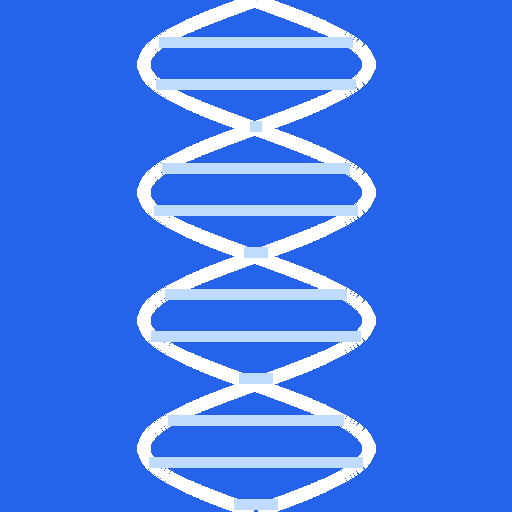
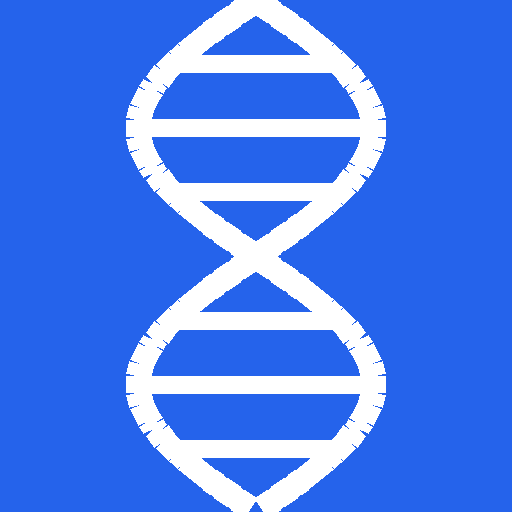
Add files via upload

Changed region(s): [[0.25, 0.0, 0.75, 1.0]]

diff --git a/index.html b/index.html
@@ -1,108 +1,69 @@
-<!doctype html>
-<html lang="ja">
-<head>
-<meta charset="utf-8">
-<meta name="viewport" content="width=device-width,initial-scale=1,viewport-fit=cover">
-<meta name="theme-color" content="#2563eb">
-<meta name="apple-mobile-web-app-capable" content="yes">
-<meta name="apple-mobile-web-app-title" content="DNA計算">
-<link rel="manifest" href="manifest.json">
-<link rel="apple-touch-icon" href="icon-192.png">
-<title>DNA混合比率・容量計算</title>
+<!doctype html><html lang="ja"><head>
+<meta charset="utf-8"><meta name="viewport" content="width=device-width,initial-scale=1,viewport-fit=cover">
+<meta name="theme-color" content="#2563eb"><link rel="manifest" href="manifest.json"><title>DNA計算</title>
 <style>
-*{box-sizing:border-box}body{margin:0;background:#f3f4f6;color:#111827;font-family:-apple-system,BlinkMacSystemFont,"Segoe UI","Hiragino Sans",Meiryo,sans-serif}
-main{max-width:720px;margin:auto;padding:18px 16px 40px}h1{font-size:23px;margin:0 0 6px}.sub{color:#6b7280;font-size:13px}
-.card{background:white;border-radius:16px;padding:16px;margin-top:14px;box-shadow:0 1px 6px #00000012}
-h2{font-size:17px;margin:0 0 13px}.grid{display:grid;grid-template-columns:1fr 1fr;gap:12px}
-label{display:block;font-size:13px;font-weight:700;margin-bottom:6px}.field{margin-bottom:10px}
-input,select{width:100%;padding:12px;border:1px solid #d1d5db;border-radius:10px;font-size:17px;background:white}
-.unit{display:grid;grid-template-columns:1fr 110px;gap:8px}
-.target{border:2px solid #2563eb;background:#eff6ff}
-.target input{font-size:21px;font-weight:700}
-.recommend{font-size:12px;color:#2563eb;margin-top:5px}
-button{width:100%;border:0;border-radius:12px;padding:14px;font-size:17px;font-weight:800;background:#2563eb;color:white;margin-top:4px}
-.clear{background:#e5e7eb;color:#111827;margin-top:9px;font-size:15px}
-.result{padding:12px;border-radius:11px;background:#eff6ff;border:1px solid #bfdbfe;margin:9px 0}.rlabel{font-size:12px;color:#4b5563}.value{font-size:20px;font-weight:800;margin-top:2px}.small{font-size:12px;color:#6b7280;margin-top:3px}
-.error{display:none;background:#fef2f2;border:1px solid #fecaca;color:#b91c1c;padding:10px;border-radius:10px;margin-top:10px;font-size:13px}
-.hidden{display:none}.formula{font:12px ui-monospace,SFMono-Regular,Menlo,monospace;line-height:1.7;background:#f9fafb;padding:10px;border-radius:9px}
-.note{font-size:12px;color:#6b7280;line-height:1.5}@media(max-width:430px){.grid{grid-template-columns:1fr}}
-</style>
-</head>
-<body>
-<main>
-<h1>DNA混合比率・容量計算</h1>
-<div class="sub">DNA AとDNA Bを指定したモル比で混合するための容量計算</div>
+*{box-sizing:border-box}body{font-family:-apple-system,BlinkMacSystemFont,"Helvetica Neue",Arial,sans-serif;margin:0;background:#f3f6fa;color:#172033;padding-bottom:30px}
+header{background:#2563eb;color:#fff;padding:18px 16px;text-align:center;font-size:22px;font-weight:700}
+main{max-width:620px;margin:auto;padding:14px}.card{background:#fff;border-radius:14px;padding:16px;margin-bottom:14px;box-shadow:0 2px 10px #0000000f}
+h2{font-size:18px;margin:0 0 14px}label{display:block;font-size:14px;font-weight:600;margin:12px 0 6px}
+input,select{width:100%;font-size:17px;padding:12px;border:1px solid #cbd5e1;border-radius:9px;background:#fff}.row{display:grid;grid-template-columns:1fr 120px;gap:8px}
+.type-row{display:flex;gap:8px}.type-row label{flex:1;margin:0}.type-row input{position:absolute;opacity:0}.type-row span{display:block;border:1px solid #cbd5e1;border-radius:9px;padding:11px 6px;text-align:center;font-weight:600;background:#fff}
+.type-row input:checked+span{background:#dbeafe;border-color:#2563eb;color:#1d4ed8}.hint,.unit-note{font-size:12px;color:#64748b;margin-top:6px}.recommend{font-size:13px;color:#2563eb;margin-top:7px}
+button{width:100%;border:0;border-radius:10px;padding:14px;font-size:18px;font-weight:700;background:#2563eb;color:#fff;margin-top:4px}.small-btn{background:#64748b;font-size:14px;padding:9px;margin-top:10px}
+.result{background:#eff6ff;border-left:4px solid #2563eb;padding:12px;border-radius:8px;margin:9px 0}.result b{font-size:18px}.error{background:#fee2e2;color:#991b1b;padding:12px;border-radius:8px;margin-top:12px}
+footer{text-align:center;color:#64748b;font-size:11px;padding:8px 15px}
+</style></head><body><header>DNA計算</header><main>
 
-<section class="card">
-<h2>① DNA A</h2>
-<div class="grid">
-<div class="field"><label for="aConc">DNA A 濃度</label><div class="unit"><input id="aConc" type="number" inputmode="decimal" step="any" min="0" placeholder="例：20"><select id="aUnit"><option value="ngul">ng/µL</option><option value="gl">g/L</option></select></div></div>
-<div class="field"><label for="aSize">DNA A サイズ (bp)</label><input id="aSize" type="number" inputmode="numeric" min="1" placeholder="例：5000"></div>
-</div>
-</section>
+<div class="card"><h2>① DNA A</h2>
+<label>DNA A の種類</label><div class="type-row">
+<label><input type="radio" name="typeA" value="ds" checked><span>2本鎖DNA (dsDNA)</span></label>
+<label><input type="radio" name="typeA" value="ss"><span>1本鎖DNA (ssDNA)</span></label></div>
+<label>DNA A サイズ（bp / nt）</label><input id="sizeA" type="number" min="0" step="any" inputmode="decimal" placeholder="例：1000">
+<label>DNA A 濃度</label><div class="row"><input id="concA" type="number" min="0" step="any" inputmode="decimal" placeholder="例：10"><select id="unitA"><option value="ngul">ng/µL</option><option value="gl">g/L</option></select></div></div>
 
-<section class="card">
-<h2>② DNA B</h2>
-<div class="grid">
-<div class="field"><label for="bConc">DNA B 濃度</label><div class="unit"><input id="bConc" type="number" inputmode="decimal" step="any" min="0" placeholder="例：10"><select id="bUnit"><option value="ngul">ng/µL</option><option value="gl">g/L</option></select></div></div>
-<div class="field"><label for="bSize">DNA B サイズ (bp)</label><input id="bSize" type="number" inputmode="numeric" min="1" placeholder="例：3000"></div>
-</div>
-</section>
+<div class="card"><h2>② DNA B</h2>
+<label>DNA B の種類</label><div class="type-row">
+<label><input type="radio" name="typeB" value="ds" checked><span>2本鎖DNA (dsDNA)</span></label>
+<label><input type="radio" name="typeB" value="ss"><span>1本鎖DNA (ssDNA)</span></label></div>
+<label>DNA B サイズ（bp / nt）</label><input id="sizeB" type="number" min="0" step="any" inputmode="decimal" placeholder="例：500">
+<label>DNA B 濃度</label><div class="row"><input id="concB" type="number" min="0" step="any" inputmode="decimal" placeholder="例：10"><select id="unitB"><option value="ngul">ng/µL</option><option value="gl">g/L</option></select></div></div>
 
-<section class="card target">
-<h2>③ DNA A の目標量</h2>
-<label for="targetA">Aを何 pmol 使用したいですか？</label>
-<input id="targetA" type="number" inputmode="decimal" step="any" min="0.000001" value="0.03">
-<div class="recommend">推奨値：0.03 pmol　（必要に応じて自由に変更できます）</div>
-</section>
+<div class="card"><h2>③ DNA A の目標量</h2>
+<label>Aを何量 使用したいですか？</label><div class="row"><input id="targetA" type="number" min="0" step="any" inputmode="decimal" value="0.03">
+<select id="targetUnit"><option value="pmol">pmol</option><option value="fmol">fmol</option></select></div>
+<div class="recommend">推奨値：0.03 pmol（30 fmol）／自由に変更できます</div></div>
 
-<section class="card">
-<h2>④ 混合モル比</h2>
-<div class="field"><label for="ratio">DNA A : DNA B = 1 : N</label><input id="ratio" type="number" inputmode="decimal" step="any" min="0.000001" value="1" placeholder="例：2"></div>
-<button type="button" id="calc">計算実行</button>
-<button type="button" id="clear" class="clear">入力をクリア</button>
-<div id="error" class="error"></div>
-</section>
+<div class="card"><h2>④ 混合モル比</h2><label>DNA A : DNA B = 1 : N</label>
+<input id="ratioN" type="number" min="0" step="any" inputmode="decimal" value="1" placeholder="例：2"></div>
 
-<section id="results" class="card hidden">
-<h2>計算結果</h2>
-<div class="result"><div class="rlabel">DNA A モル濃度</div><div class="value" id="aMol"></div><div class="small">µM = pmol/µL</div></div>
-<div class="result"><div class="rlabel">DNA A 使用量</div><div class="value" id="aVol"></div><div class="small" id="aNote"></div></div>
-<div class="result"><div class="rlabel">DNA B 必要量</div><div class="value" id="bPmol"></div></div>
-<div class="result"><div class="rlabel">DNA B モル濃度</div><div class="value" id="bMol"></div><div class="small">µM = pmol/µL</div></div>
-<div class="result"><div class="rlabel">DNA B 使用量</div><div class="value" id="bVol"></div></div>
-<div class="result"><div class="rlabel">合計使用量</div><div class="value" id="total"></div></div>
-</section>
+<div class="card"><button type="button" onclick="calculate()">計算する</button><div id="output"></div>
+<button type="button" class="small-btn" onclick="clearSaved()">保存した入力値を消去</button></div>
+</main><footer>入力値はこの端末のブラウザに保存され、外部には送信されません。<br>濃度換算：1 ng/µL = 0.001 g/L　｜　平均分子量：dsDNA = 660 g/mol/bp、ssDNA = 330 g/mol/nt</footer>
 
-<section class="card">
-<h2>計算式</h2>
-<div class="formula">分子量 = bp × 660 g/mol<br>モル濃度(µM) = 濃度(g/L) ÷ (bp × 660) × 10⁶<br>A使用量(µL) = A目標量(pmol) ÷ A濃度(µM)<br>B目標量(pmol) = A目標量 × N<br>B使用量(µL) = B目標量(pmol) ÷ B濃度(µM)</div>
-<p class="note">※ dsDNAの平均分子量を660 g/mol/bpとして計算。ng/µLとg/Lは数値上同値です。</p>
-</section>
-</main>
 <script>
-const $=id=>document.getElementById(id);
-const num=(id,name)=>{const v=Number($(id).value);if(!Number.isFinite(v)||v<=0)throw Error(name+"を0より大きい数値で入力してください。");return v};
-const fmt=x=>{if(!Number.isFinite(x))return "—";if(x===0)return"0";if(Math.abs(x)>=1000||Math.abs(x)<.001)return x.toExponential(5);return String(Number(x.toFixed(6)))};
-function calc(){
- $("error").style.display="none";$("results").classList.add("hidden");
- try{
-  const ac=num("aConc","DNA A濃度"), as=num("aSize","DNA Aサイズ");
-  const bc=num("bConc","DNA B濃度"), bs=num("bSize","DNA Bサイズ");
-  const target=num("targetA","DNA A目標量"), ratio=num("ratio","混合比N");
-  const am=ac/(as*660)*1e6, bm=bc/(bs*660)*1e6;
-  const av=target/am, bp=target*ratio, bv=bp/bm;
-  $("aMol").textContent=fmt(am)+" µM";$("aVol").textContent=fmt(av)+" µL";
-  $("aNote").textContent="目標量 "+fmt(target)+" pmol";
-  $("bPmol").textContent=fmt(bp)+" pmol";$("bMol").textContent=fmt(bm)+" µM";
-  $("bVol").textContent=fmt(bv)+" µL";$("total").textContent=fmt(av+bv)+" µL";
-  $("results").classList.remove("hidden");$("results").scrollIntoView({behavior:"smooth"});
- }catch(e){$("error").textContent=e.message;$("error").style.display="block"}
-}
-$("calc").onclick=calc;
-$("clear").onclick=()=>{["aConc","aSize","bConc","bSize"].forEach(id=>$(id).value="");$("targetA").value="0.03";$("ratio").value="1";$("error").style.display="none";$("results").classList.add("hidden")};
-document.querySelectorAll("input").forEach(e=>e.onkeydown=x=>{if(x.key==="Enter")calc()});
-if("serviceWorker"in navigator)navigator.serviceWorker.register("./sw.js").catch(()=>{});
-</script>
-</body>
-</html>
+const ids=["sizeA","concA","unitA","sizeB","concB","unitB","targetA","targetUnit","ratioN"], radios=["typeA","typeB"];
+function saveInputs(){let d={};ids.forEach(id=>d[id]=document.getElementById(id).value);radios.forEach(n=>{let e=document.querySelector('input[name="'+n+'"]:checked');d[n]=e?e.value:"ds"});localStorage.setItem("dnaCalculatorInputsV5",JSON.stringify(d))}
+function loadInputs(){try{let d=JSON.parse(localStorage.getItem("dnaCalculatorInputsV5")||"{}");ids.forEach(id=>{if(d[id]!==undefined)document.getElementById(id).value=d[id]});radios.forEach(n=>{if(d[n]){let e=document.querySelector('input[name="'+n+'"][value="'+d[n]+'"]');if(e)e.checked=true}})}catch(e){}}
+function clearSaved(){localStorage.removeItem("dnaCalculatorInputsV5");location.reload()}
+function num(id){return Number(document.getElementById(id).value)}
+function molarity(c,size,type){return c/(size*(type==="ds"?660:330))*1e6}
+function fmt(x){if(!isFinite(x))return"—";if(x===0)return"0";if(Math.abs(x)>=1000||Math.abs(x)<.001)return x.toExponential(4);return Number(x.toPrecision(6)).toString()}
+function calculate(){
+ saveInputs();let a=["sizeA","concA","sizeB","concB","targetA","ratioN"].map(num);
+ let [sizeA,concA,sizeB,concB,target,ratio]=a;
+ let unitA=document.getElementById("unitA").value,unitB=document.getElementById("unitB").value,targetUnit=document.getElementById("targetUnit").value;
+ let typeA=document.querySelector('input[name="typeA"]:checked').value,typeB=document.querySelector('input[name="typeB"]:checked').value,out=document.getElementById("output");
+ if(a.some(v=>!isFinite(v)||v<=0)){out.innerHTML='<div class="error">サイズ、濃度、目標量、モル比には0より大きい数値を入力してください。</div>';return}
+ let cAGL=(unitA==="ngul"?concA*0.001:concA),cBGL=(unitB==="ngul"?concB*0.001:concB);let molA=molarity(cAGL,sizeA,typeA),molB=molarity(cBGL,sizeB,typeB);
+ let targetPmol=targetUnit==="fmol"?target/1000:target,targetFmol=targetPmol*1000;
+ let volA=targetPmol/molA,bPmol=targetPmol*ratio,volB=bPmol/molB,total=volA+volB;
+ out.innerHTML=`<div class="result"><div>Aのモル濃度</div><b>${fmt(molA)} pmol/µL</b><div class="hint">${fmt(molA*1000)} fmol/µL</div></div>
+ <div class="result"><div>Aの目標量</div><b>${fmt(targetPmol)} pmol</b><div class="hint">${fmt(targetFmol)} fmol</div></div>
+ <div class="result"><div>Aの添加量</div><b>${fmt(volA)} µL</b></div>
+ <div class="result"><div>Bの必要量</div><b>${fmt(bPmol)} pmol</b><div class="hint">${fmt(bPmol*1000)} fmol</div></div>
+ <div class="result"><div>Bのモル濃度</div><b>${fmt(molB)} pmol/µL</b><div class="hint">${fmt(molB*1000)} fmol/µL</div></div>
+ <div class="result"><div>Bの添加量</div><b>${fmt(volB)} µL</b></div>
+ <div class="result"><div>合計液量</div><b>${fmt(total)} µL</b></div>`}
+document.addEventListener("DOMContentLoaded",()=>{loadInputs();ids.forEach(id=>{document.getElementById(id).addEventListener("input",saveInputs);document.getElementById(id).addEventListener("change",saveInputs)});radios.forEach(n=>document.querySelectorAll('input[name="'+n+'"]').forEach(e=>e.addEventListener("change",saveInputs)))});
+if("serviceWorker"in navigator)window.addEventListener("load",()=>navigator.serviceWorker.register("sw.js").catch(()=>{}));
+</script></body></html>

diff --git a/sw.js b/sw.js
@@ -1,1 +1,4 @@
-const C="dna-calc-v3";const A=["./","./index.html","./manifest.json","./sw.js","./icon-192.png","./icon-512.png"];self.addEventListener("install",e=>e.waitUntil(caches.open(C).then(c=>c.addAll(A)).then(()=>self.skipWaiting())));self.addEventListener("activate",e=>e.waitUntil(caches.keys().then(k=>Promise.all(k.filter(x=>x!==C).map(x=>caches.delete(x)))).then(()=>self.clients.claim())));self.addEventListener("fetch",e=>e.respondWith(caches.match(e.request).then(x=>x||fetch(e.request))));
+const CACHE="dna-calc-v6";const ASSETS=["./","./index.html","./manifest.json","./icon-192.png","./icon-512.png"];
+self.addEventListener("install",e=>e.waitUntil(caches.open(CACHE).then(c=>c.addAll(ASSETS)).then(()=>self.skipWaiting())));
+self.addEventListener("activate",e=>e.waitUntil(self.clients.claim()));
+self.addEventListener("fetch",e=>e.respondWith(caches.match(e.request).then(r=>r||fetch(e.request).then(res=>{let c=res.clone();caches.open(CACHE).then(x=>x.put(e.request,c));return res}).catch(()=>caches.match("./index.html")))));
